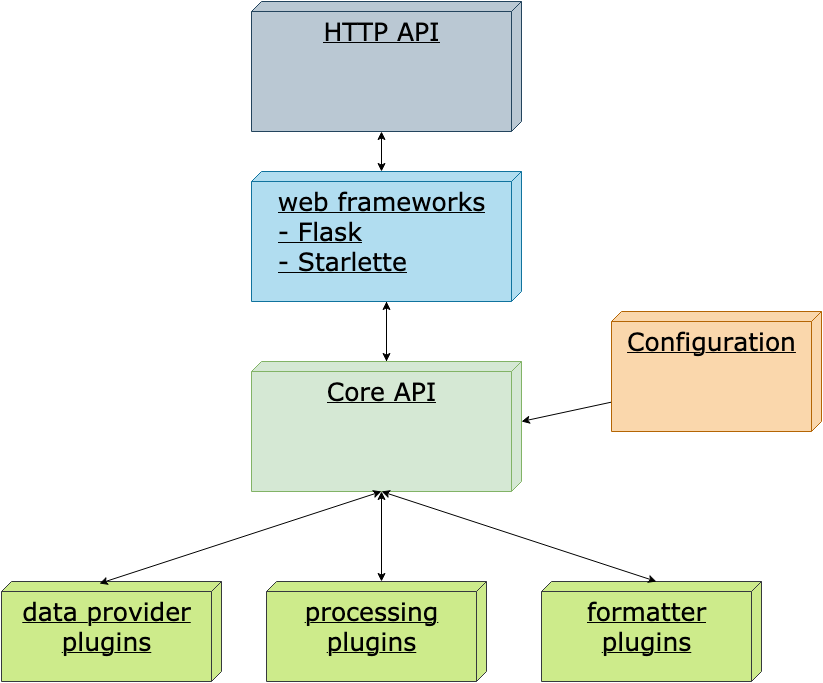
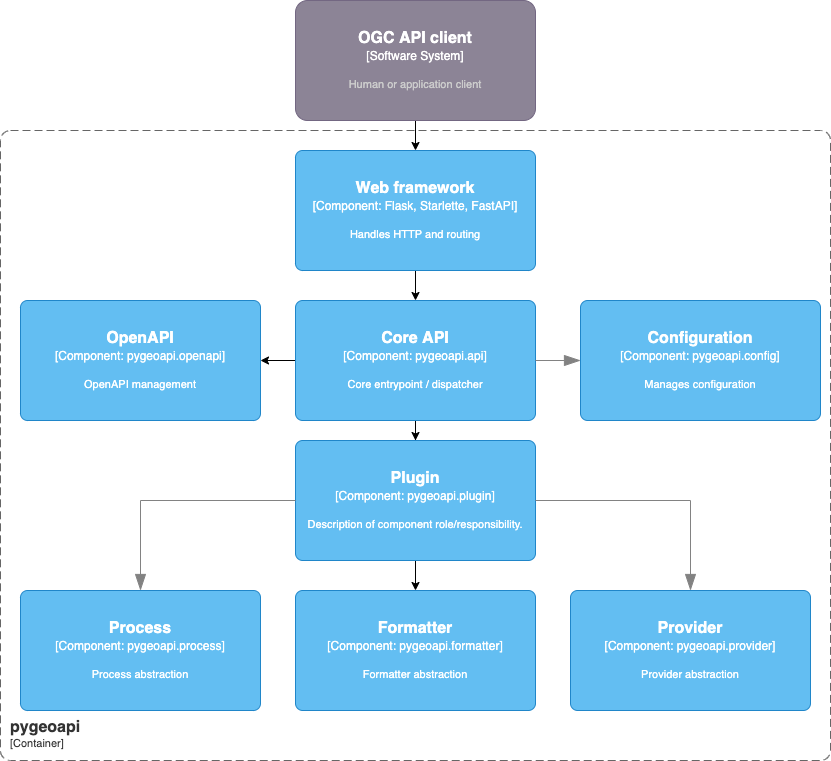
update architecture diagrams using C4 notation

diff --git a/docs/source/_static/README.md b/docs/source/_static/README.md
@@ -1,0 +1,10 @@
+# Diagrams
+
+The following files in This directory are managed using [diagrams.net](https://diagrams.net):
+
+- how-pygeoapi-works.png
+
+To use in diagrams.net:
+
+- to export as a static image, use `File -> Export as -> PNG` and save to the
+  `/docs/sources/_static` directory and use/reference accordingly
